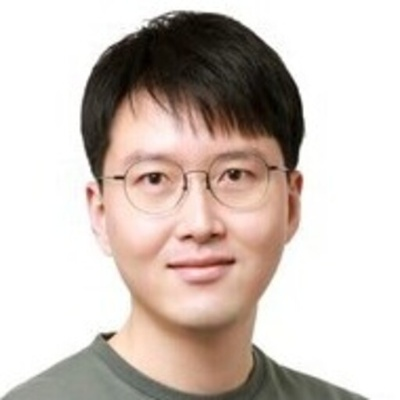
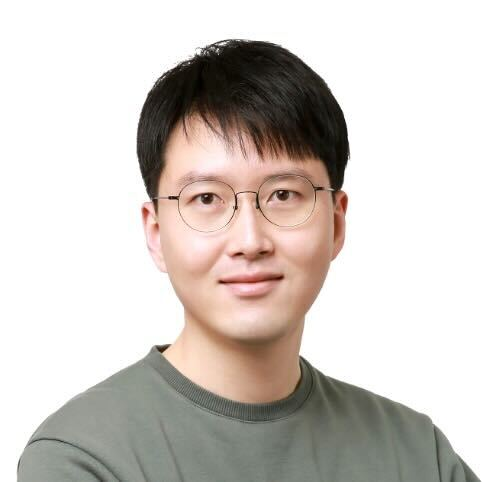
update face images

diff --git a/people.html b/people.html
@@ -126,6 +126,7 @@
                           </div>                    
                           <h4 class="card-title">Byeonghwi Kim</h4>
                           <h6 class="card-subtitle mb-2 text-muted">Ph.D. Student</h6>
+                          <h6 class="card-subtitle mb-2 text-muted">(Off to KRAFTON AI)</h6>
                             <a href="https://bhkim94.github.io/" class="card-link" target="_blank"><i class="fa fa-globe fa-2x" aria-hidden="true"></i></a>
                             <a href="mailto:byeonghwikim@snu.ac.kr" class="card-link"><i class="fa fa-envelope fa-2x" aria-hidden="true"></i></a>       
                             <a href="http://github.com/bhkim94" class="card-link" target="_blank"><i class="fa fa-github fa-2x" aria-hidden="true"></i></a>
@@ -343,7 +344,7 @@
                     <div class="card-body">
                             <div class="author">
                                 <div class="avatar">
-                                    <img src="./assets/img/kit/faces/youhanlee.jpg" class="img-raised rounded-circle img-fluid"/>
+                                    <img src="./assets/img/kit/faces/youhanlee-2.jpg" class="img-raised rounded-circle img-fluid"/>
                                 </div>
                             </div>                    
                             <h4 class="card-title">Youhan Lee</h4>
@@ -371,7 +372,7 @@
                     <div class="card-body">
                             <div class="author">
                                 <div class="avatar">
-                                    <img src="./assets/img/kit/faces/scrambled_face.jpg" class="img-raised rounded-circle img-fluid"/>
+                                    <img src="./assets/img/kit/faces/taewookkang.jpg" class="img-raised rounded-circle img-fluid"/>
                                 </div>
                             </div>                    
                             <h4 class="card-title">Taewook Kang</h4>
@@ -465,7 +466,7 @@
                     <div class="card-body">
                             <div class="author">
                                 <div class="avatar">
-                                    <img src="./assets/img/kit/faces/scrambled_face.jpg" class="img-raised rounded-circle img-fluid"/>
+                                    <img src="./assets/img/kit/faces/jiminryu.jpg" class="img-raised rounded-circle img-fluid"/>
                                 </div>
                             </div>                    
                             <h4 class="card-title">Jimin Ryu</h4>
